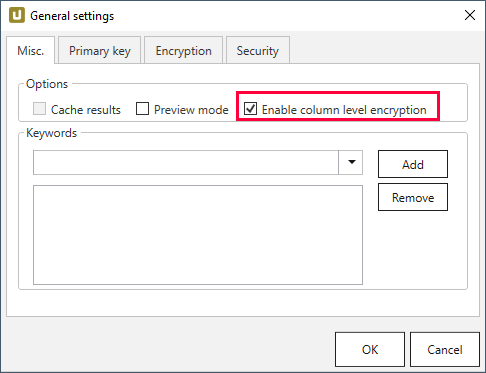
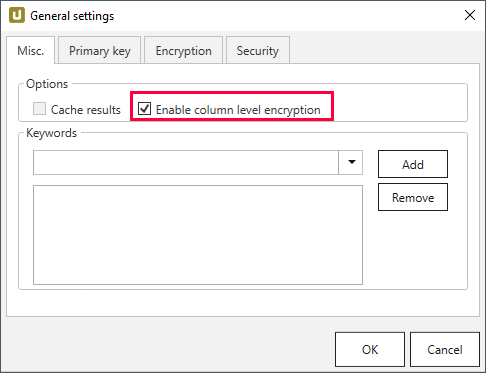
Preview Mode + Encryption

Changed region(s): [[0.2469, 0.2359, 0.9259, 0.3244]]

diff --git a/_includes/_content/de/xu-specific/fortgeschrittene-techniken/allgemeine-einstellungen.md b/_includes/_content/de/xu-specific/fortgeschrittene-techniken/allgemeine-einstellungen.md
@@ -27,24 +27,21 @@ Der Tab "Misc." besteht aus zwei Unterabschnitten:
 **Hinweis:** die Option *Cache results* ist nur Verfügbar in [Pull-Destinationen](../destinationen#pull--und-push-destinationen) (z.B. PBI, Qlik etc.).
 
 Pull-Destinationen ziehen die Daten oft mehrfach aus SAP. Um die Belastung des SAP-Servers zu verringern, können Sie die Option **Cache results** auswählen,
- so dass die Pull-Destination die Daten aus dem Cache und nicht aus dem SAP zieht.
+so dass die Pull-Destination die Daten aus dem Cache und nicht aus dem SAP zieht.
 Dies erhöht die Performance und begrenzt die Auswirkungen auf das SAP-System.
- Wenn dieses Verhalten nicht erwünscht ist (z.B. weil die Daten immer zu 100% aktuell sein müssen), muss die Cache-Option explizit ausgeschaltet werden.
-
-**Preview Mode** (2)
-
-Wenn der Preview-Modus aktiviert ist, wird nur ein kleiner Teil der Daten aus SAP extrahiert oder, falls eine Extraktion nicht möglich ist, werden stattdessen Beispieldaten erzeugt.
-
+Wenn dieses Verhalten nicht erwünscht ist (z.B. weil die Daten immer zu 100% aktuell sein müssen), muss die Cache-Option explizit ausgeschaltet werden.
+ 
+**Enable column level encryption** (2)<br>
+Die Checkbox muss angehakt werden, wenn Sie eine "Column Encryption" (Spalten-Verschlüsselung) verwenden, siehe [Encryption](#encryption).
 
 #### Keywords (Schlüsselwörter)
 
 Ein oder mehrere Schlüsselwörter (Tags) können auf eine Extraktion gesetzt werden. 
-Schlüsselwörter können direkt in das Schlüsselwortfeld (3) eingegeben werden.
+Schlüsselwörter können direkt in das Schlüsselwortfeld eingegeben werden.
 Innerhalb des Designers können Sie diese Schlüsselwörter zum Filtern von Extraktionen verwenden. 
 
 {:.box-tip}
 **Tipp:** zum Anzeigen der Filteroptionen, navigieren Sie zu **[Extractions] > [Filter]** oder drücken Sie **[CTRL]+[F]**.
-
 
 
 ### Primary Key Tab
@@ -58,11 +55,16 @@ In diesem Beispiel besteht der Primärschlüssel aus *KUNNR*, *VKORG*, *VTWEG* u
 *Hinweis:** ein definiertes Primärschlüsselfeld in einer Tabelle ist die Voraussetzung für das Zusammenführen (Merge) von Daten. 
 
 ### Encryption
+Sie können Daten sowohl verschlüsselt als auch unverschlüsselt speichern. 
+Die “Column Encryption” (Spalten-Verschlüsselung) ermöglicht Ihnen eine Verschlüsselung der Spalten bevor die extrahierten Daten in die Destination hochgeladen werden. 
+Dadurch kann sichergestellt werden, dass sensible Informationen geschützt sind.
 
-Bald verfügbar.
+Diese Funktion unterstützt außerdem wahlfreien Zugriff, d.h. dass Daten von jedem beliebigen Startpunkt aus entschlüsselt werden können. 
+Da wahlfreier Zugriff einen erheblichen Overhead verursacht, wird empfohlen die Spalten-Verschlüsselung nicht auf den gesamten Datensatz anzuwenden.
 
-![General-Settings-Encryption](/img/content/XU-General_Settings-Encryption.png){:class="img-responsive"}
-
+Spalten-Verschlüsselung wird nicht von allen Destinationen unterstützt.
+Wenn die Spalten-Verschlüsselung verfügbar ist, können Sie die zu verschlüsselnden Spalten in der Liste verfügbarer Spalten auswählen. <br>
+![Column-Encryption](/img/content/xu/xu-column-encryption-01.png){:class="img-responsive"}
 
 ### Security Tab
 

diff --git a/_includes/_content/en/xu-specific/advanced-techniques/general-settings.md b/_includes/_content/en/xu-specific/advanced-techniques/general-settings.md
@@ -28,13 +28,12 @@ The miscellaneous tab consists of two subsections:
 Pull destinations often pull the data from SAP for several times. To decrease the SAP server load, you can select the **Cache results** option, this way the pull destination pulls the data from cache and not from the SAP.
 This increases the performance and limits the impact on the SAP system. If this behavior is not desired (for example, because the data must be always 100% up to date), the cache option must be explicitly turned off.
 
-**Preview Mode** (2)
-If preview mode is activated, only a small portion of data is extracted from SAP or, if extraction is not possible, sample data is generated instead.
-
+**Enable column level encryption** (2)<br>
+This option needs to be active when using “Column Encryption”, see [Encryption](#encryption).
 
 #### Keywords
 One or more keywords (Tags) can be set to an extraction. 
-Keywords can be entered directly in the keyword field (3).
+Keywords can be entered directly in the keyword field.
 Within the Designer you can use these keywords to filter  extractions. 
 
 {:.box-tip}
@@ -52,10 +51,18 @@ Depicted example demonstrates the SAP object *KNA1* and *KNVV* with their primar
 
 ### Encryption
 
-Coming soon.
+The “Column Encryption” feature enables users to encrypt columns in the extracted data set before uploading them to the destination. 
+By encrypting the columns you can ensure the safety of sensitive information. 
+You can store data in its encrypted form or decrypt it right away.
 
-![General-Settings-Encryption](/img/content/XU-General_Settings-Encryption.png){:class="img-responsive"}
+The feature also supports random access, meaning that the data is decryptable at any starting point. 
+Because random access has a significant overhead, it is not recommended to use column encryption for encrypting the whole data set.
+
+Not all destinations support column encryption.
+If the column encryption feature is available, you can select the columns to encrypt from a list of available columns. <br>
+![Column-Encryption](/img/content/xu/xu-column-encryption-01.png){:class="img-responsive"}
 
 
 ### Security Tab
 The security tab is described in the section [access management](../security/access-management).
+![Extraction-Settings_](/img/content/XU_Extraction_Security3.png){:class="img-responsive"}
